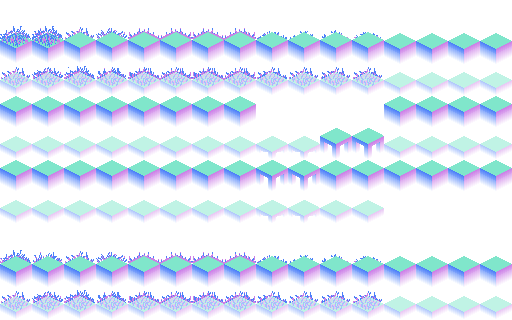
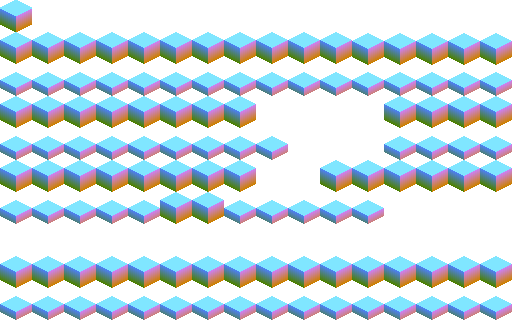
added some shader stuff to the isometric rendering

diff --git a/lib/components/level/rendering/isometric_shader_manager.dart b/lib/components/level/rendering/isometric_shader_manager.dart
@@ -6,21 +6,28 @@ import 'dart:ui';
 
 import 'package:flame/components.dart';
 import 'package:flame/flame.dart';
-import 'package:image/image.dart' as img;
-import 'package:mpg_achievements_app/components/level/isometric/isometric_tiled_component.dart';
 import 'package:mpg_achievements_app/components/level/rendering/game_sprite.dart';
+import 'package:mpg_achievements_app/components/level/rendering/game_tile_map.dart';
 import 'package:mpg_achievements_app/mpg_pixel_adventure.dart';
-import 'package:vector_math/vector_math.dart' show Vector2;
 
-mixin IsometricShaderManager on IsometricTiledComponent{
+import '../isometric/isometric_renderable.dart';
+
+class IsometricShaderManager{
 
   late FragmentProgram program;
   FragmentShader? shader;
 
-  late Image tileset;
-  late Image normalAndDepthTileset;
+  Image? tileset;
+  Image? normalAndDepthTileset;
+  Image? tileData;
 
   late Image defaultNormalTexture;
+
+  GameTileMap gameTileMap;
+
+  IsometricShaderManager(this.gameTileMap){
+    init();
+  }
 
   void initShaderProgram() async{
     program = await FragmentProgram.fromAsset("assets/shaders/lighting.frag");
@@ -30,8 +37,13 @@ mixin IsometricShaderManager on IsometricTiledComponent{
   }
   Paint paint = Paint();
 
-  final mappedIndices = <int, int>{};
+  void init(){
+    initShaderProgram();
+    buildTilesets();
+    convertTileDataToImage();
+  }
 
+  final mappedIndices = <int, int>{};
   void buildTilesets() async{
     PictureRecorder albedoRecorder = PictureRecorder();
     PictureRecorder normalDepthRecorder = PictureRecorder();
@@ -69,27 +81,16 @@ mixin IsometricShaderManager on IsometricTiledComponent{
 
 
     tileset = await albedoRecorder.endRecording().toImage((rows * tilesize.x).toInt(), (tilesize.y * cols).toInt());
-    normalAndDepthTileset = await normalDepthRecorder.endRecording().toImage((width * tilesize.x).toInt(), (height * tilesize.y).toInt());
-
-    Image testBild;
-
-    Flame.images.load("testbild.png").then((value) {
-      testBild = value;
-    });
+    normalAndDepthTileset = await normalDepthRecorder.endRecording().toImage((rows * tilesize.x).toInt(), (cols * tilesize.y).toInt());
   }
 
-  Future<Image> convertValuesToImage(List<double> vals, int width, int height) async{
+  Future<Image> convertValuesToImage(List<int> vals, int width, int height) async{
     int pxCount = width * height;
 
     Uint8List bytes = Uint8List(pxCount);
 
-
-    for (int i = 0; i < pxCount; i++) {
-      double val = vals[i];
-
-      int floatVal = (val * 255.0).round();
-      floatVal.clamp(0, 255);
-      bytes[i] = floatVal;
+    for (int i = 0; i < pxCount; i++){
+      bytes[i] = vals[i].clamp(0, 255);
     }
 
     Completer<Image> completer = Completer();
@@ -98,16 +99,59 @@ mixin IsometricShaderManager on IsometricTiledComponent{
     return completer.future;
   }
 
-  void convertTileDataToImage(){
+  void convertTileDataToImage() async{
 
-    for(RenderInstance instance in gameTileMap.renderableTiles){
+    int rows = gameTileMap.tiledMap.width;
+    int cols = gameTileMap.tiledMap.height;
 
-
-
-
-    }
+    int length = rows * cols * 4 * gameTileMap.totalZLayers;
 
 
+    List<int> data = List.generate(length, (index) {
+      int result = 0;
+
+      double tileIndex = (index ~/ 4).toDouble();
+
+      double layerTileIndex = (tileIndex % (rows*cols)).floorToDouble();
+
+      double gridX = layerTileIndex % cols;
+      double gridY = (layerTileIndex ~/ cols).toDouble();
+      double gridZ = (tileIndex ~/ gameTileMap.totalZLayers).toDouble();
+
+
+      int? gid = gameTileMap.getGidAt(Vector3(gridX, gridY, gridZ));
+      if(gid == null) {
+        print("no gid found at $gridX, $gridY, $gridZ");
+      }
+
+      int? transformedGid = mappedIndices[gid];
+      if(transformedGid == null) {
+        print("no transformed gid found at $gridX, $gridY, $gridZ");
+      }
+
+      switch(index % 4){
+        case 0: { // tile index
+          print("gid1: ${transformedGid! & 0xFFFFFFFF00000000}");
+          return transformedGid & 0xFFFFFFFF00000000;
+        }
+        case 1: { // tile index 2
+          print("gid2: ${transformedGid! & 0x00000000FFFFFFFF}");
+          return transformedGid & 0x00000000FFFFFFFF;
+        }
+        case 2: { // normal index
+          print("normal gid1: ${transformedGid! & 0xFFFFFFFF00000000}");
+          return transformedGid & 0xFFFFFFFF00000000;
+        }
+        case 3: { // normal index 2
+          print("normal gid2: ${transformedGid! & 0x00000000FFFFFFFF}");
+          return transformedGid & 0x00000000FFFFFFFF;
+        }
+
+      }
+      return result;
+    });
+
+    tileData = await convertValuesToImage(data, rows, cols * gameTileMap.totalZLayers);
   }
 
 
@@ -115,15 +159,16 @@ mixin IsometricShaderManager on IsometricTiledComponent{
 
 
   Paint shaderPaint = Paint();
-  void frame(Canvas canvas){
-    if(shader == null) return;
+  void frame(Canvas canvas, Iterable<IsometricRenderable> components){
+    if(shader == null || tileData == null || tileset == null || normalAndDepthTileset == null) return;
+    print("passed!");
 
     final double width = gameTileMap.tiledMap.width * tilesize.x;
     final double height = gameTileMap.tiledMap.height * tilesize.z;
 
-    shader!.setImageSampler(0, image); //map data pixel => tile, r & g => tilesetIndex, b & a => normal and depth tileset index
-    shader!.setImageSampler(1, tileset); //tileset (albedo)
-    shader!.setImageSampler(2, normalAndDepthTileset); //tileset (normal and depth)
+    shader!.setImageSampler(0, tileData!); //map data pixel => tile, r & g => tilesetIndex, b & a => normal and depth tileset index
+    shader!.setImageSampler(1, tileset!); //tileset (albedo)
+    shader!.setImageSampler(2, normalAndDepthTileset!); //tileset (normal and depth)
 
 
     shader!.setFloat(0, gameTileMap.tiledMap.width.toDouble()); //layerWidth

diff --git a/lib/components/level/rendering/game_tile_map.dart b/lib/components/level/rendering/game_tile_map.dart
@@ -28,9 +28,11 @@ class GameTileMap {
 
   late int totalZLayers;
 
-  GameTileMap(this.tiledMap){
+  GameTileMap(this.tiledMap);
+
+  Future<void> init() async{
     totalZLayers = tiledMap.layers.whereType<TileLayer>().length;
-    _buildTileCache(tiledMap);
+    return await _buildTileCache(tiledMap);
   }
 
   Future<void> _buildTileCache(TiledMap map) async {
@@ -198,50 +200,10 @@ class GameTileMap {
 
     Image normalImage = await getTileFromTilesetToImage(normalSprite);
 
-    normalImage = await divideImageAlpha(normalImage, (totalZLayers - tileZ).toDouble());
+    normalImage = await normalImage.transformPixels((p0) => p0.withBlue(((((tileZ + p0.b) / totalZLayers)) * 255).toInt()));
 
     textures[gid] = GameSprite(texture, normalImage);
     renderableTiles.add(RenderInstance(sprite.render, worldPos, tileZ, Vector2(tileX.toDouble(), tileY.toDouble()), RenderCategory.tile, texture, normalImage));
-  }
-
-  Future<ui.Image> divideImageAlpha(ui.Image src, double val) async {
-    final int width = src.width;
-    final int height = src.height;
-
-    final ByteData? byteData = await src.toByteData(format: ui.ImageByteFormat.rawRgba);
-    if (byteData == null) throw Exception('Failed to get image bytes');
-
-    final Uint8List pixels = byteData.buffer.asUint8List();
-
-    for (int i = 0; i < pixels.length; i += 4) {
-      final int r = pixels[i];
-      final int g = pixels[i + 1];
-      final int b = pixels[i + 2];
-      final int a = pixels[i + 3];
-
-      final int newA = (a ~/ val);
-
-      if (a == 0) {
-        pixels[i + 3] = newA;
-      } else {
-        final double factor = newA / a;
-        pixels[i] = (r * factor).round().clamp(0, 255);
-        pixels[i + 1] = (g * factor).round().clamp(0, 255);
-        pixels[i + 2] = (b * factor).round().clamp(0, 255);
-        pixels[i + 3] = newA;
-      }
-    }
-
-    final ui.ImmutableBuffer buffer = await ui.ImmutableBuffer.fromUint8List(pixels);
-    final ui.ImageDescriptor descriptor = ui.ImageDescriptor.raw(
-      buffer,
-      width: width,
-      height: height,
-      pixelFormat: ui.PixelFormat.rgba8888,
-    );
-    final ui.Codec codec = await descriptor.instantiateCodec();
-    final ui.FrameInfo fi = await codec.getNextFrame();
-    return fi.image;
   }
 
   final _spriteImageCache = <Sprite, Image>{};

diff --git a/lib/components/level/isometric/isometric_tiled_component.dart b/lib/components/level/isometric/isometric_tiled_component.dart
@@ -1,7 +1,9 @@
 import 'package:flame/extensions.dart';
 import 'package:flame_tiled/flame_tiled.dart';
 import 'package:mpg_achievements_app/components/level/isometric/isometric_renderable.dart';
+import 'package:mpg_achievements_app/components/level/rendering/g_buffer.dart';
 import 'package:mpg_achievements_app/components/level/rendering/game_tile_map.dart';
+import 'package:mpg_achievements_app/components/level/rendering/isometric_shader_manager.dart';
 
 // An enumeration to categorize renderable objects.
 enum RenderCategory {
@@ -28,17 +30,24 @@ class RenderInstance {
 
 // Instead of letting Flame render layer by layer, this component deconstructs the map
 // into a list of individual `RenderInstance` objects
-class IsometricTiledComponent extends TiledComponent{
+class IsometricTiledComponent extends TiledComponent {
   IsometricTiledComponent(super.map);
 
   late GameTileMap gameTileMap;
+  //late IsometricShaderManager shaderManager;
+  late GBuffer gBuffer;
 
   @override
   Future<void> onLoad() async {
     await super.onLoad();
     gameTileMap = GameTileMap(tileMap.map);
+    await gameTileMap.init();
+    //shaderManager = IsometricShaderManager(gameTileMap);
+    gBuffer = GBuffer(gameTileMap);
   }
 
+
   void renderComponentsInTree(Canvas canvas, Iterable<IsometricRenderable> components) {
+    gBuffer.render(canvas, components);
   }
 }

diff --git a/lib/components/level/rendering/g_buffer.dart b/lib/components/level/rendering/g_buffer.dart
@@ -1,10 +1,7 @@
 import 'dart:ui';
 import 'dart:ui' as ui;
 
-import 'package:flame/components.dart';
 import 'package:flame/extensions.dart';
-import 'package:flutter/foundation.dart';
-import 'package:flutter/material.dart' show Colors;
 import 'package:mpg_achievements_app/components/level/rendering/game_tile_map.dart';
 
 import '../../../mpg_pixel_adventure.dart';
@@ -15,7 +12,8 @@ class GBuffer {
   Image? normalAndDepthMap;
   Image? albedoMap;
 
-  GBuffer(){
+  GameTileMap gameTileMap;
+  GBuffer(this.gameTileMap){
     setupPaintShader();
   }
 
@@ -34,8 +32,8 @@ class GBuffer {
 
   void _renderComponentsInTree(Canvas canvas, Iterable<IsometricRenderable> components) {
     buildMaps(components);
-    if(albedoMap != null) {
-      canvas.drawImage(albedoMap!, Offset.zero, paint);
+    if(normalAndDepthMap != null) {
+      canvas.drawImage(normalAndDepthMap!, Offset.zero, paint);
     }
   }
 
@@ -67,6 +65,7 @@ class GBuffer {
     lastComponents = components;
     lastRenderables = calculateSortedRenderInstances(components);
     buildAlbedoMap();
+    buildNormalAndDepthMap();
   }
 
 
